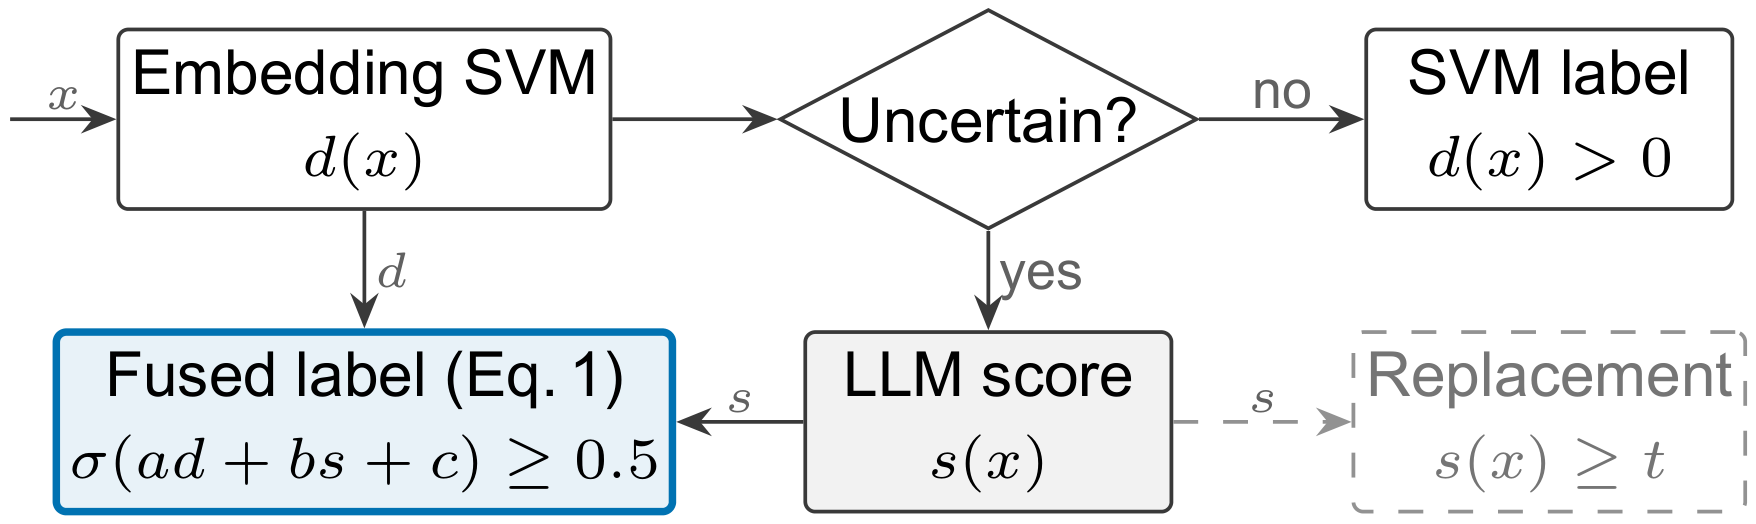
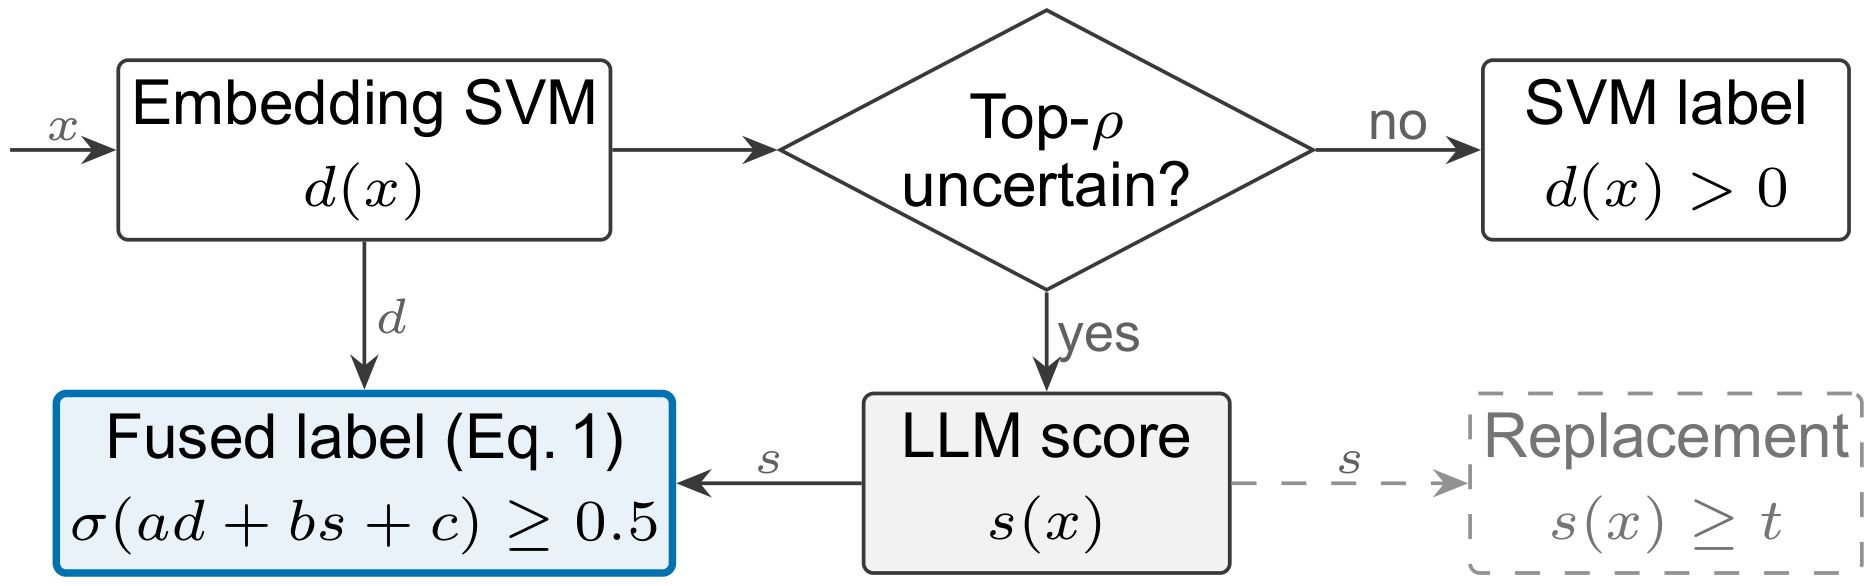
Advisor comments a-c and ver.2 edits
- Fig. 1 gate now says Top-rho uncertain? and 2.2 points to it (comment: rho not in the figure)
- 2.4 defines t: accuracy-maximising LLM threshold on L, the same t as Table 1 '임계값 조정' (comment: where is t)
- 3.1 '원 논문[2]', '원 논문 보고값' (comment: which original paper)
- ported from the advisor's ver.2: references renumbered in order of appearance, Table 1 NN-PPI [2],
  'Hanbat National University', duplicate intro citation dropped, '그림 1은 … 전체 구조이다', '즉,',
  comma after Eq. (1), a×d, '영어' dropped in 3.1

diff --git a/figures/method_diagram.tex b/figures/method_diagram.tex
@@ -25,7 +25,8 @@
     baseflow/.style={flow, draw=ink!55, dashed},
   ]
   \node[box]                       (svm)  {Embedding SVM\\[0.3mm]$d(x)$};
-  \node[gate, right=of svm]        (gate) {Uncertain?};
+  % routing step of Sec. 2.2: the call-rate fraction rho of sentences with the smallest |d(x)| go to the LLM
+  \node[gate, right=of svm]        (gate) {Top-$\rho$\\[-0.3mm]uncertain?};
   \node[box, right=of gate]        (keep) {SVM label\\[0.3mm]$d(x)>0$};
   \node[llm, below=4.2mm of gate]  (llm)  {LLM score\\[0.3mm]$s(x)$};
   \node[ours] at (llm -| svm)      (fuse) {Fused label (Eq.\,1)\\[0.3mm]$\sigma(ad+bs+c)\geq 0.5$};
